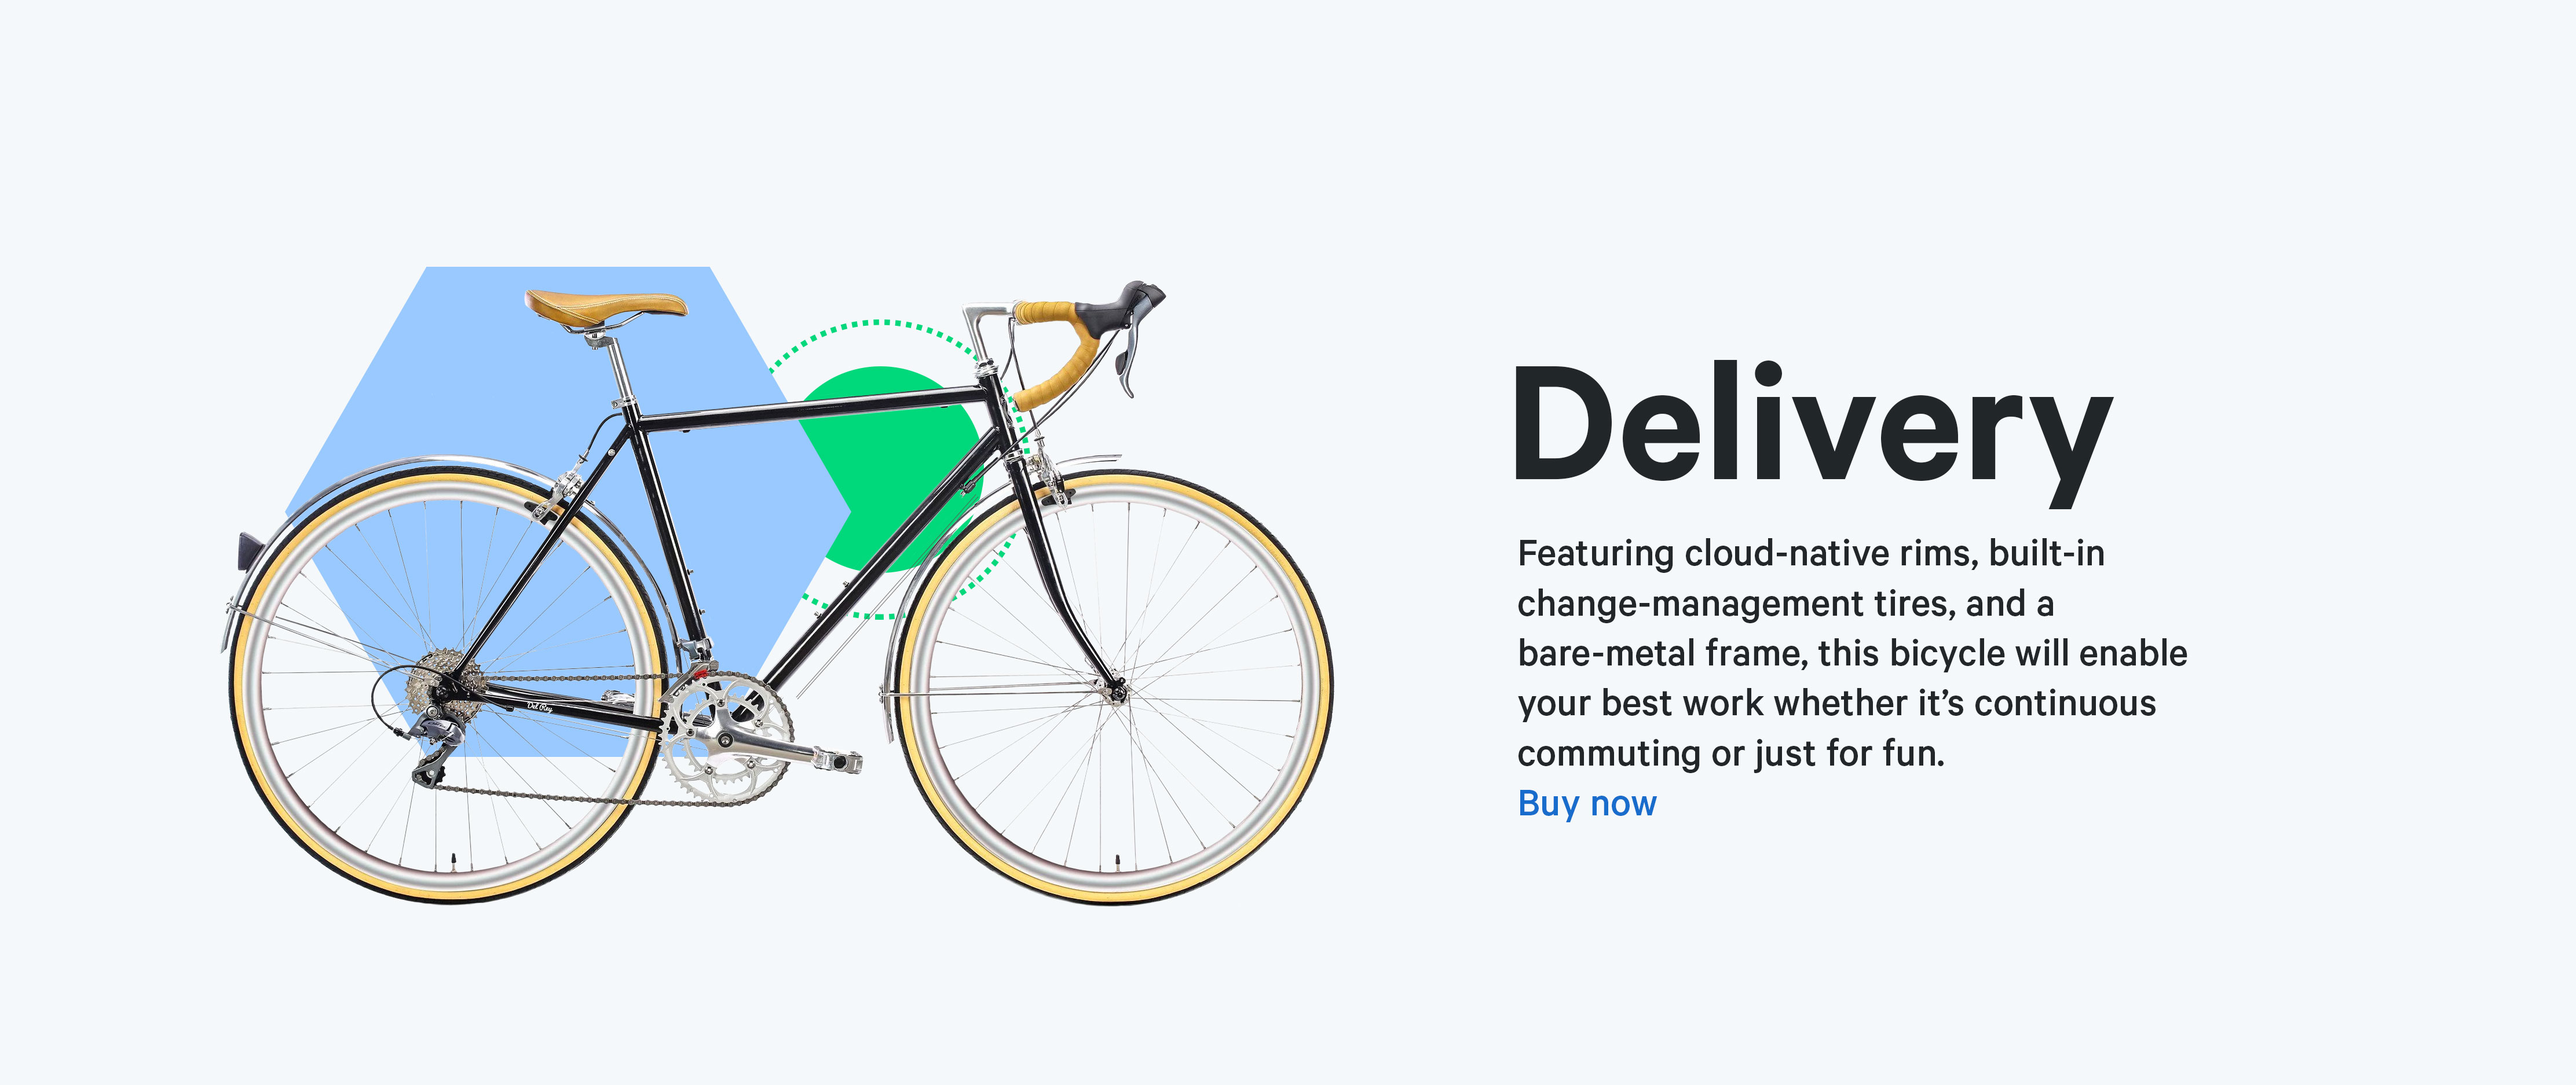
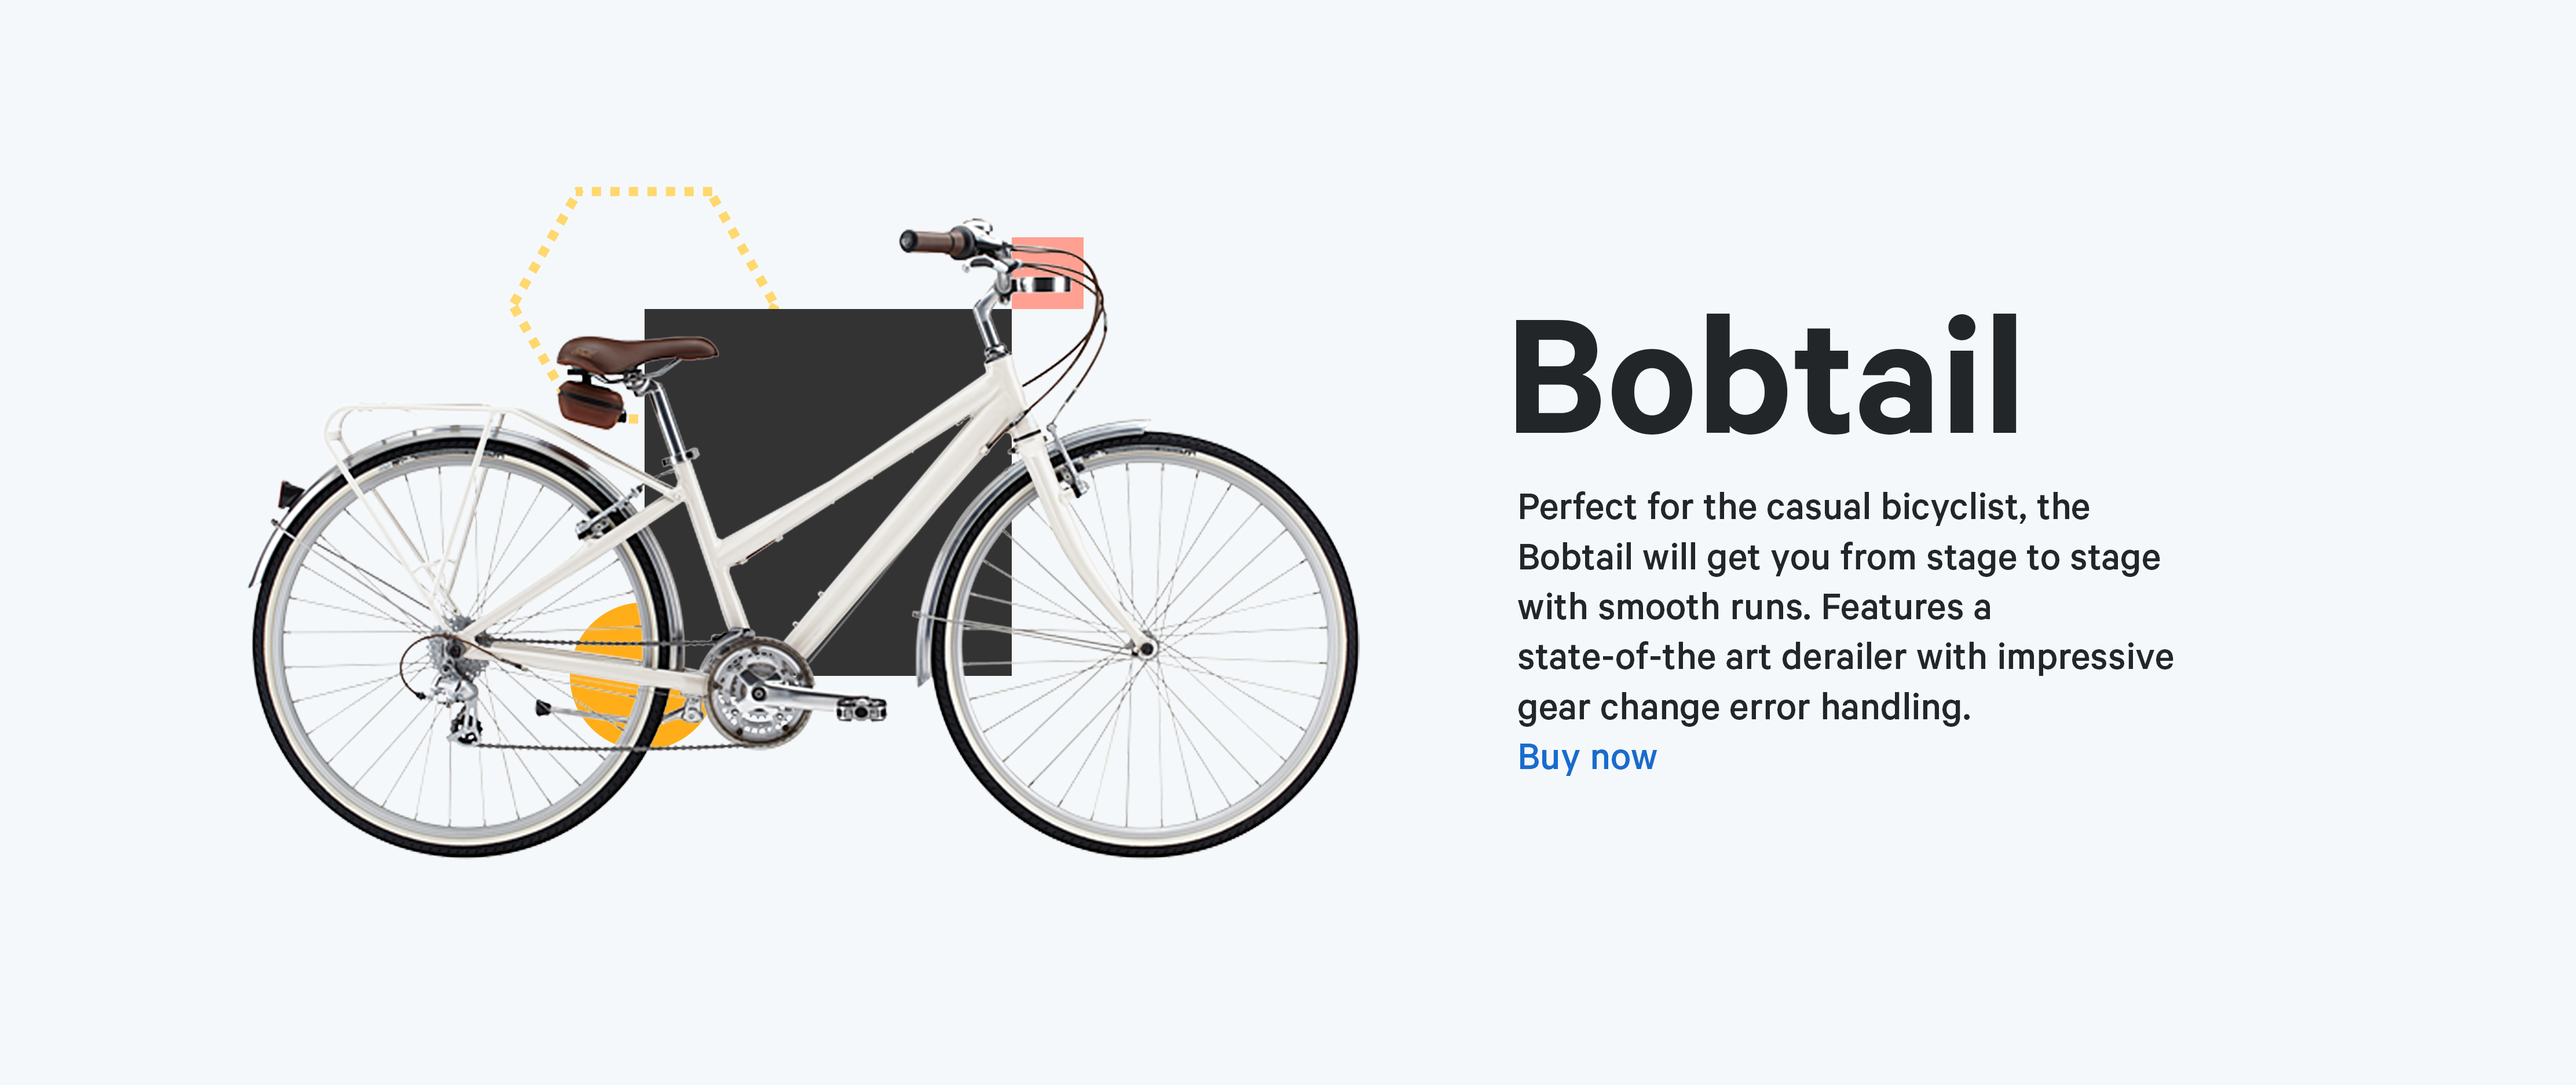
updates hero images

Changed region(s): [[0.0625, 0.1856, 0.5312, 0.8352], [0.5625, 0.2784, 0.8438, 0.7733], [0.2188, 0.1547, 0.2812, 0.1856]]

diff --git a/public/css/style.blue.css b/public/css/style.blue.css
@@ -217,11 +217,8 @@ h1 {
 }
 #main-slider {
   margin-bottom: 30px;
-  border: solid 1px #fff;
   opacity: 0;
   filter: alpha(opacity=0);
-  -webkit-box-shadow: 0 2px 5px rgba(0, 0, 0, 0.2);
-  box-shadow: 0 2px 5px rgba(0, 0, 0, 0.2);
 }
 .box.slideshow ul li div,
 #main-slider ul li div {
